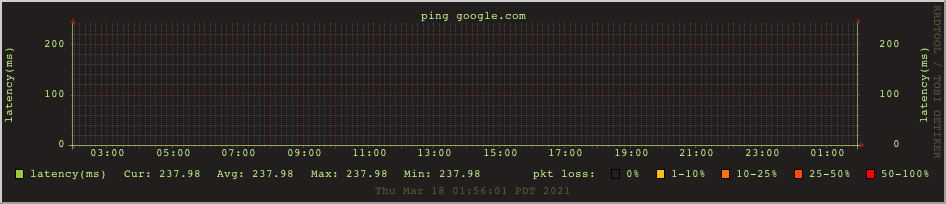
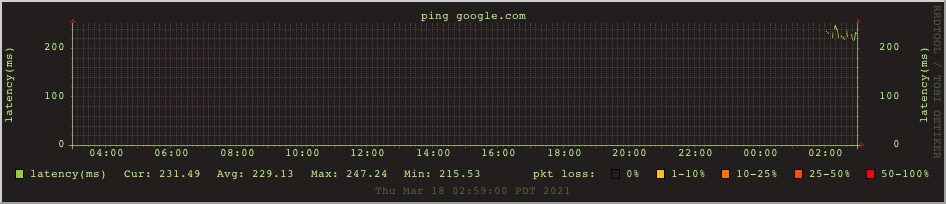
typos fix

diff --git a/README.md b/README.md
@@ -3,3 +3,6 @@ check internet availability &amp; ping latency
 
 ## Setting up
 Run `setup.sh` file to install the neccessary packages and setting up cron
+
+## Check stats
+Check `latency_graph.png` after couple of minutes to verify if data is being plotted
